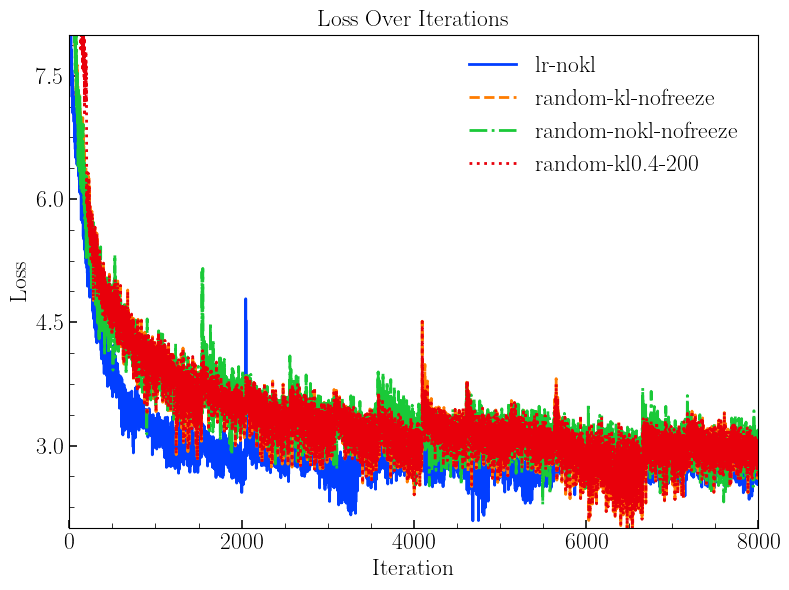
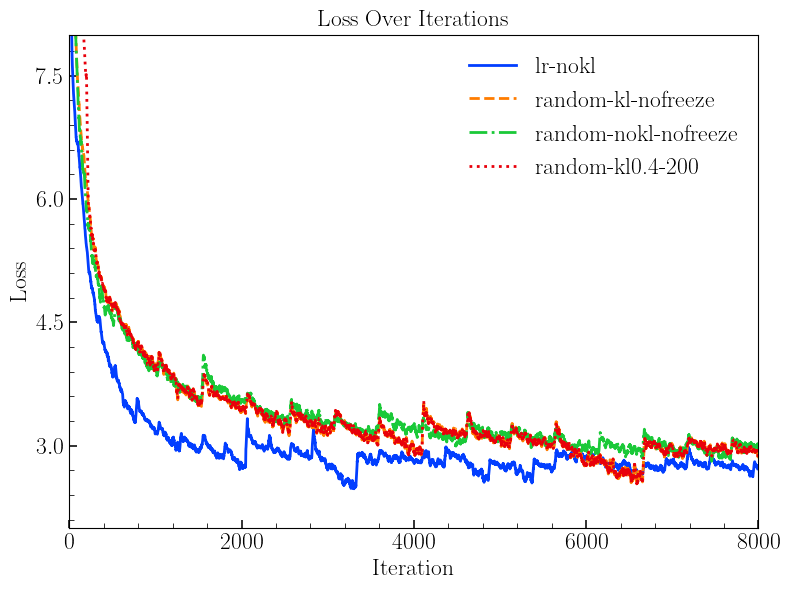
update moving average

diff --git a/LLM/txt_logloss.py b/LLM/txt_logloss.py
@@ -1,7 +1,7 @@
 import numpy as np
 import re
 import yaml
-from myplotstyle import AcademicPlot
+from sciplotlib import AcademicPlot
 import sys
 
 # 修改这个函数来解析YAML文件
@@ -10,23 +10,34 @@ def parse_yaml(yaml_file_path):
         config = yaml.safe_load(file)
     return config
 
-def parse_log(file_path, sampling_rate=1):
+def parse_log(file_path, sampling_rate=1, window_size=5):
     iter_nums = []
-    losses = []
-    counter = 0  # 添加一个计数器用于实现采样
+    raw_losses = []
+    smoothed_losses = []
+    counter = 0
 
     with open(file_path, 'r') as file:
         for line in file:
-            if counter % sampling_rate == 0:  # 每隔sampling_rate个样本点取一个数据点
+            if counter % sampling_rate == 0:
                 match = re.search(r'iter (\d+): loss (\d+\.\d+)', line)
                 if match:
                     iter_num = int(match.group(1))
                     loss = float(match.group(2))
                     iter_nums.append(iter_num)
-                    losses.append(loss)
+                    raw_losses.append(loss)
+                    
+                    # 计算移动平均
+                    if len(raw_losses) < window_size:
+                        # 如果还没有足够的点来填满窗口，则取目前所有点的平均
+                        smoothed_loss = np.mean(raw_losses)
+                    else:
+                        # 否则，取最近的window_size个点的平均
+                        smoothed_loss = np.mean(raw_losses[-window_size:])
+                    
+                    smoothed_losses.append(smoothed_loss)
             counter += 1
 
-    return iter_nums, losses
+    return iter_nums, smoothed_losses
 
 if __name__ == "__main__":
     # 接受一个YAML配置文件的路径
@@ -40,6 +51,7 @@ if __name__ == "__main__":
 
     log_files=config['log_files']
     sampling_rate=config['sampling_rate']
+    window_size=config.get('window_size',5)
     plot_setting=config.get('plot_setting',{})
 
     plot = AcademicPlot(figsize=(8, 6))
@@ -47,7 +59,7 @@ if __name__ == "__main__":
     for file_config in log_files:
         file_path = file_config['path']
         label = file_config['label']
-        iter_nums, losses = parse_log(file_path,sampling_rate=sampling_rate)
+        iter_nums, losses = parse_log(file_path,sampling_rate=sampling_rate,window_size=window_size)
         plot.plot(iter_nums, losses, label=label)  # 使用自定义标签
 
     plot.set_title("Loss Over Iterations")

diff --git a/sciplotlib/sciplotlib.py b/sciplotlib/sciplotlib.py
@@ -3,13 +3,15 @@ import matplotlib.pyplot as plt
 from matplotlib.ticker import MaxNLocator, AutoMinorLocator,ScalarFormatter
 from itertools import cycle
 import numpy as np
+import matplotlib
+
 
 # 设置字体和启用 LaTeX
 plt.rcParams['font.family'] = 'Times New Roman'
 plt.rcParams['text.usetex'] = True
 
 class AcademicPlot(object):
-    def __init__(self, ax=None, nrows=1, ncols=1,figsize=(8, 6), tick_count=5,fontsize = 17,theme='bright'):
+    def __init__(self, ax=None, nrows=1, ncols=1,figsize=(8, 6), tick_count=5,fontsize = 17,theme='bright',show_minor_ticks=True):
         if ax is not None:
             self.fig = ax.figure
             self.ax = ax
@@ -22,6 +24,8 @@ class AcademicPlot(object):
                 self.ax = self.axs
             else:
                 self.ax = None  # 在多子图情况下使用self.axs
+
+        self.show_minor_ticks = show_minor_ticks
         self.figsize = figsize
         self.fontsize = fontsize
         self.set_base_style(tick_count)
@@ -48,17 +52,21 @@ class AcademicPlot(object):
         def apply_style(ax):
             ax.spines['top'].set_visible(True)
             ax.spines['right'].set_visible(True)
-            ax.xaxis.set_major_locator(MaxNLocator(tick_count))
-            ax.yaxis.set_major_locator(MaxNLocator(tick_count))
 
             ax.tick_params(axis='both', which='major', length=self.fontsize/3, width=self.fontsize/15, direction='in')
-            ax.tick_params(axis='both', which='minor', length=self.fontsize/5, width=self.fontsize/30, direction='in')
+            ax.xaxis.set_major_locator(MaxNLocator(tick_count))
+            ax.yaxis.set_major_locator(MaxNLocator(tick_count))
 
             for label in ax.get_xticklabels() + ax.get_yticklabels():
                 label.set_fontsize(self.fontsize)
 
-            ax.xaxis.set_minor_locator(AutoMinorLocator())
-            ax.yaxis.set_minor_locator(AutoMinorLocator())
+            if self.show_minor_ticks:
+                ax.xaxis.set_minor_locator(AutoMinorLocator(tick_count))
+                ax.yaxis.set_minor_locator(AutoMinorLocator(tick_count))
+                ax.tick_params(axis='both', which='minor', length=self.fontsize/5, width=self.fontsize/30, direction='in')
+            else:
+                # 不显示副刻度
+                ax.tick_params(axis='both', which='minor', length=0)
 
             for label in ax.xaxis.get_minorticklabels() + ax.yaxis.get_minorticklabels():
                 label.set_visible(False)

diff --git a/testscripts/test_tick.py b/testscripts/test_tick.py
@@ -1,0 +1,7 @@
+from sciplotlib import AcademicPlot
+import numpy as np
+import matplotlib.pyplot as plt
+
+plt = AcademicPlot(figsize=(8,6),fontsize=20,show_minor_ticks=True)
+plt.plot(np.random.randn(100),np.random.randn(100),marker='o')
+plt.savefig("test.png")

diff --git a/LLM/SVD.py b/LLM/SVD.py
@@ -1,6 +1,6 @@
 import torch
 
-from myplotstyle import AcademicPlot
+from sciplotlib import AcademicPlot
 from transformers import AutoModelForCausalLM, AutoTokenizer
 # torch.linalg.matrix_rank(t)
 

diff --git a/LLM/svd_distritusion.py b/LLM/svd_distritusion.py
@@ -1,4 +1,4 @@
-from myplotstyle import AcademicPlot
+from sciplotlib import AcademicPlot
 from transformers import AutoModelForCausalLM
 import torch
 import numpy as np

diff --git a/LLM/csv_logloss.py b/LLM/csv_logloss.py
@@ -1,7 +1,7 @@
 import numpy as np
 import re
 import yaml
-from myplotstyle import AcademicPlot
+from sciplotlib import AcademicPlot
 import sys
 import csv
 

diff --git a/testscripts/test_myplotstyle.py b/testscripts/test_myplotstyle.py
@@ -1,4 +1,4 @@
-from myplotstyle import AcademicPlot
+from sciplotlib import AcademicPlot
 
 # 使用示例
 plot = AcademicPlot()

diff --git a/sciplotlib/__init__.py b/sciplotlib/__init__.py
@@ -1,0 +1,1 @@
+from .sciplotlib import AcademicPlot

diff --git a/sciplotlib/README.md b/sciplotlib/README.md
@@ -1,0 +1,29 @@
+# AcademicPlot Class
+
+`AcademicPlot` is a Python class for generating publication-quality plots using Matplotlib. It provides an easy-to-use interface for creating various types of plots with a consistent style suitable for academic papers.
+
+## Features
+
+- Pre-defined color palettes and styles.
+- Support for LaTeX-rendered text for high-quality typography.
+- Easy customization of plot size, font size, and tick frequency.
+- Minor tick support for detailed axis scales.
+- Methods for scatter plots, line plots, and filled contour plots.
+- Functionality to enable scientific notation on axes.
+- Methods to set figure titles and axis labels with appropriate font sizes.
+
+## Usage
+
+To use the `AcademicPlot` class, first create an instance of the class. You can specify the number of rows and columns for subplots, as well as the figure size and other style-related settings upon initialization.
+
+```python
+plot = AcademicPlot(nrows=1, ncols=1, figsize=(8, 6), tick_count=5, fontsize=17, theme='bright', show_minor_ticks=True)
+set_title(title, ax=None): Sets the title of the plot.
+set_xlabel(xlabel, ax=None): Sets the label for the x-axis.
+set_ylabel(ylabel, ax=None): Sets the label for the y-axis.
+scatter(...): Creates a scatter plot.
+plot(...): Creates a line plot.
+contourf(...): Creates a filled contour plot.
+enable_scientific_notation(...): Enables scientific notation for the specified axis.
+show(): Displays the plot.
+savefig(filename): Saves the plot to the specified file.
